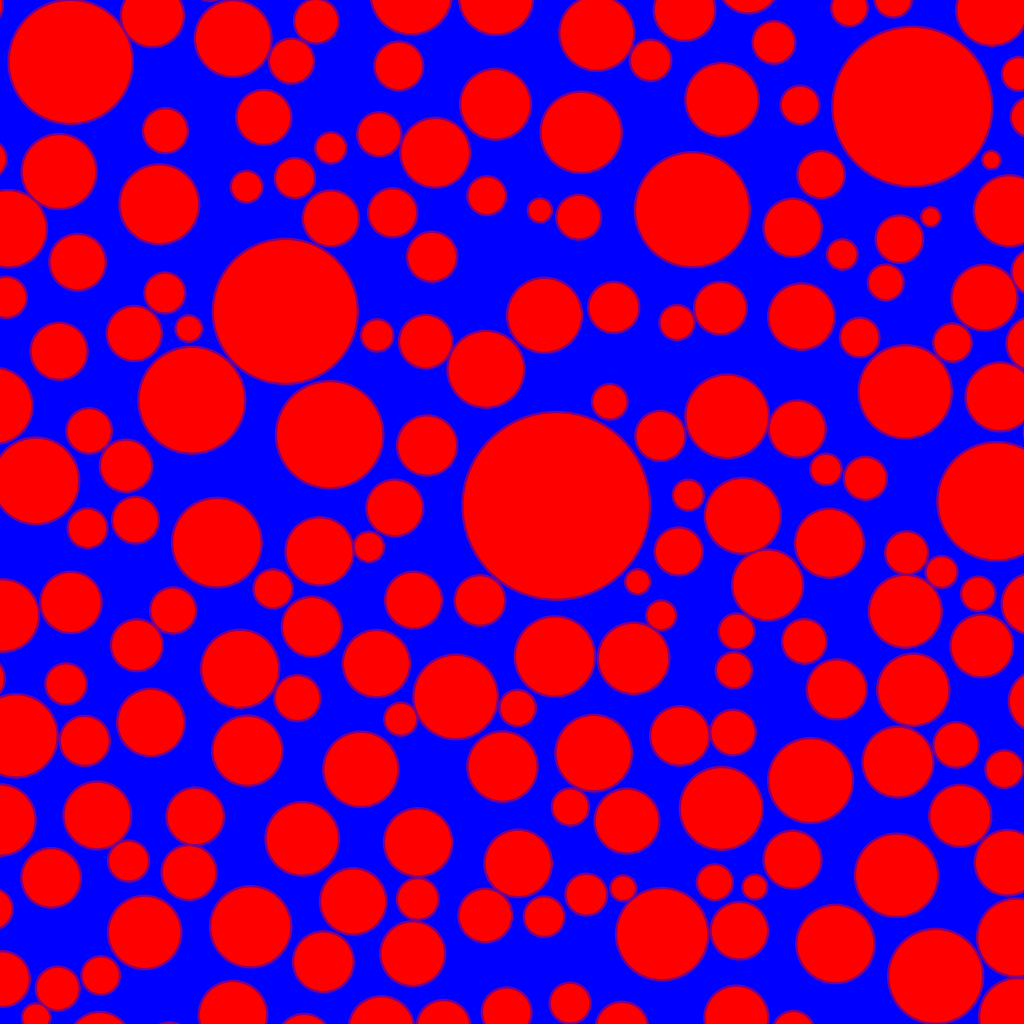
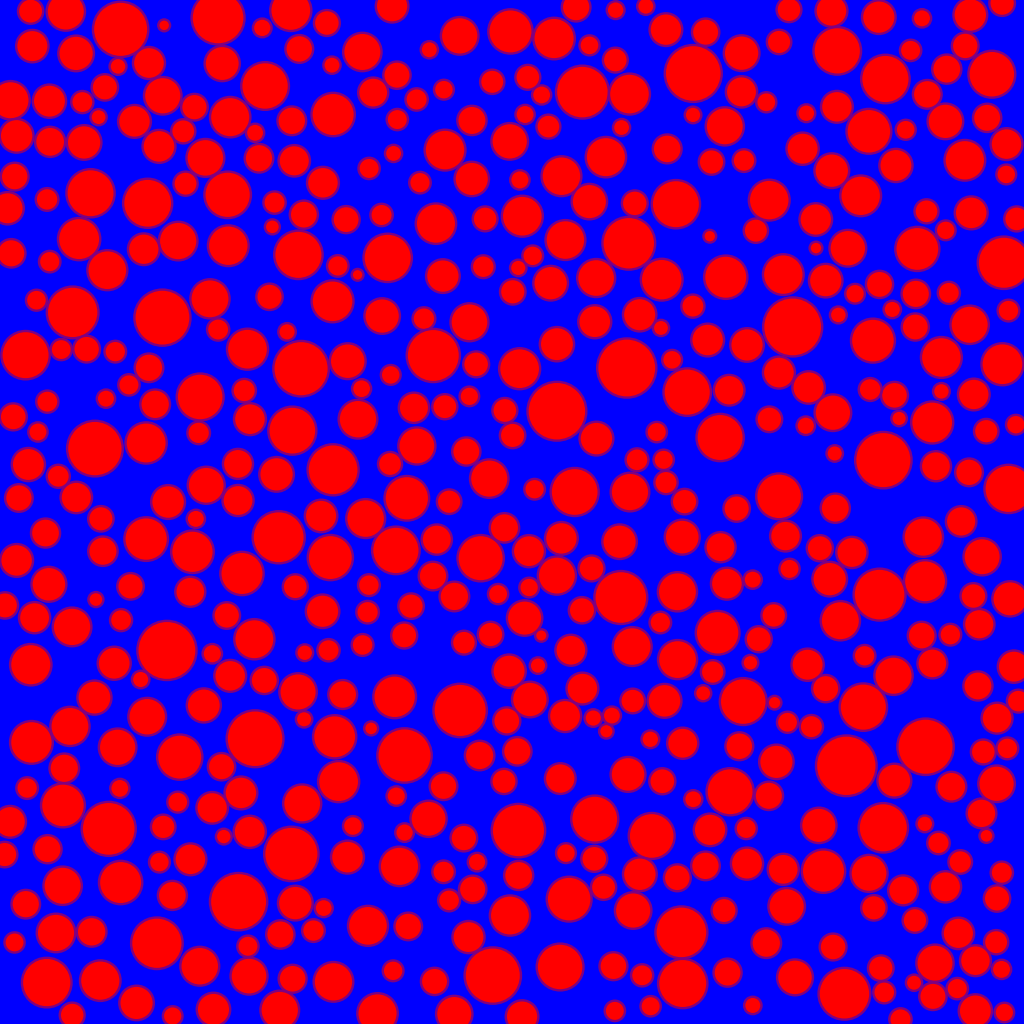
combined vert_avg w/ samples

diff --git a/samples.py b/samples.py
@@ -7,6 +7,7 @@ import os
 import gen_meso as gm
 import numpy as np
 import glob
+import line_comp as lc
 #clear folders to generate new images
 
 
@@ -23,63 +24,93 @@ def clear_folder(folder_path):
 
 
 # Parameters
-std_dev_uni = 0.2
+std_dev_uni = 0.4
 AP_vol_50A = 0.5
-avg_rad_50A = np.linspace(20e-6, 45e-6, 50)
+avg_rad_50A = np.linspace(50e-6, 100e-6, 2)
 
-avg_rad_50B = 40e-6  # fixed particle size
-AP_vol_50B = np.linspace(0.5, 0.7, 50)  # varying AP
+avg_rad_50B = 70e-6  # fixed particle size
+AP_vol_50B = np.linspace(0.4, 0.6, 50)  # varying AP
 
-std_dev_bi = [0.2, 0.4]
-mean_rad_bi_size = [np.linspace(80e-6, 130e-6, 50), [27e-6]*50]  # varying size, coarse/fine
+std_dev_bi = [0.2, 0.5] #standard dev of coarse and fine groups
+mean_rad_bi_size = [np.linspace(90e-6, 110e-6, 50), [4e-6]*50]  # varying size, coarse/fine
 AP_fixed_bi = 0.5
 
-mean_rad_bi_AP = [100e-6, 8e-6]  # fixed size, coarse/fine
-AP_bi_var = np.linspace(0.55, 0.75, 50)  # varying AP
+mean_rad_bi_AP = [110e-6, 4e-6]  # fixed size, coarse/fine
+AP_bi_var = np.linspace(0.5, 0.7, 50)  # varying AP
 mix_bi = 1/10 #1:10 coarse:fine
 
 img_size = 1
-physical_size = 5e-4
+physical_size = 50e-4
 max_attempts = 5000
 
 folderA_png = "./generated_images/unimodal_varying_part_size/pngs"
 folderA_xyzr = "./generated_images/unimodal_varying_part_size/xyzrs"
+
 folderB_png = "./generated_images/unimodal_varying_AP_ratio/pngs"
 folderB_xyzr = "./generated_images/unimodal_varying_AP_ratio/xyzrs"
+
 folderC_png = "./generated_images/bimodal_varying_part_size/pngs"
 folderC_xyzr = "./generated_images/bimodal_varying_part_size/xyzrs"
+
+
 folderD_png = "./generated_images/bimodal_varying_AP_ratio/pngs"
 folderD_xyzr = "./generated_images/bimodal_varying_AP_ratio/xyzrs"
+
 folder_ignore = "./generated_images/ignore"
+
+resultsA = "./generated_images/unimodal_varying_part_size/results.txt"
+resultsB = "./generated_images/unimodal_varying_AP_ratio/results.txt"
+resultsC = "./generated_images/bimodal_varying_part_size/results.txt"
+resultsD = "./generated_images/bimodal_varying_AP_ratio/results.txt"
+
+
 
 clear_folder(folderA_png)
 clear_folder(folderA_xyzr)
+
 clear_folder(folderB_png)
 clear_folder(folderB_xyzr)
+
 clear_folder(folderC_png)
 clear_folder(folderC_xyzr)
+
 clear_folder(folderD_png)
 clear_folder(folderD_xyzr)
 
+
+
+
+
 os.makedirs(folderA_png, exist_ok=True)
 os.makedirs(folderA_xyzr, exist_ok=True)
+
 os.makedirs(folderB_png, exist_ok=True)
 os.makedirs(folderB_xyzr, exist_ok=True)
+
 os.makedirs(folderC_png, exist_ok=True)
 os.makedirs(folderC_xyzr, exist_ok=True)
+
 os.makedirs(folderD_png, exist_ok=True)
 os.makedirs(folderD_xyzr, exist_ok=True)
+
 os.makedirs(folder_ignore, exist_ok=True)
+
+
+for fp in [resultsA, resultsB, resultsC, resultsD]:
+    os.makedirs(os.path.dirname(fp), exist_ok=True)
+
+
 
 save_path_ignore = os.path.join(folder_ignore, "ignore.png")
 
-def generate():
-    
+def generateA():
+    results = []
     # --- A: Unimodal, varying particle size ---
     for i, radius in enumerate(avg_rad_50A):
+        
         temp_png = os.path.join(folderA_png, f"temp_{i}.png")
         temp_xyzr = os.path.join(folderA_xyzr, f"temp_{i}.xyzr")
-
+        
         _, _, AP_achieved, _ = gm.gen_struct(
             temp_png, save_path_ignore, temp_xyzr,
             img_size, physical_size, radius, AP_vol_50A,
@@ -90,14 +121,23 @@ def generate():
         radius_um = int(radius * 1e7) #3 digit radius
         final_png = os.path.join(folderA_png, f"uni_R{radius_um}um_AP{AP_str}.png")
         final_xyzr = os.path.join(folderA_xyzr, f"uni_R{radius_um}um_AP{AP_str}.xyzr")
-
+        ap, htpb, interface = lc.vert_avg(save_path_ignore)
+        results.append((AP_achieved, ap, htpb, interface))
         if os.path.exists(temp_png):
             os.replace(temp_png, final_png)
         if os.path.exists(temp_xyzr):
             os.replace(temp_xyzr, final_xyzr)
         else:
             print(f"Warning: {temp_xyzr} was not created!")
+    with open(resultsA, "w") as f:
+        f.write("AP_achieved, AP_vert, HTPB_vert, Interface_vert\n")  # optional header
+        for item in results:
+            f.write(f"{item[0]}, {item[1]}, {item[2]}, {item[3]}\n")
 
+
+            
+def generateB():
+    results = []
     # --- B: Unimodal, varying AP fraction ---
     for i, AP_target in enumerate(AP_vol_50B):
         temp_png = os.path.join(folderB_png, f"temp_{i}.png")
@@ -113,14 +153,21 @@ def generate():
         radius_um = int(avg_rad_50B * 1e6)
         final_png = os.path.join(folderB_png, f"uni_AP{AP_str}_R{radius_um}um.png")
         final_xyzr = os.path.join(folderB_xyzr, f"uni_AP{AP_str}_R{radius_um}um.xyzr")
-
+        ap, htpb, interface = lc.vert_avg(save_path_ignore)
+        results.append((AP_achieved, ap, htpb, interface))
         if os.path.exists(temp_png):
             os.replace(temp_png, final_png)
         if os.path.exists(temp_xyzr):
             os.replace(temp_xyzr, final_xyzr)
         else:
             print(f"Warning: {temp_xyzr} was not created!")
+    with open(resultsB, "w") as f:
+        f.write("AP_achieved, AP_vert, HTPB_vert, Interface_vert\n")  # optional header
+        for item in results:
+            f.write(f"{item[0]}, {item[1]}, {item[2]}, {item[3]}\n")
 
+def generateC():
+    results = []
     # --- C: Bimodal, varying particle size ---
     for i, coarse_radius in enumerate(mean_rad_bi_size[0]):
         fine_radius = mean_rad_bi_size[1][i]  # pick corresponding fine particle
@@ -139,15 +186,21 @@ def generate():
         radius_um = int(coarse_radius * 1e7) #3 digit radius
         final_png = os.path.join(folderC_png, f"bi_R{radius_um}um_AP{AP_str}.png")
         final_xyzr = os.path.join(folderC_xyzr, f"bi_R{radius_um}um_AP{AP_str}.xyzr")
-
+        ap, htpb, interface = lc.vert_avg(save_path_ignore)
+        results.append((AP_achieved, ap, htpb, interface))
         if os.path.exists(temp_png):
             os.replace(temp_png, final_png)
         if os.path.exists(temp_xyzr):
             os.replace(temp_xyzr, final_xyzr)
         else:
             print(f"Warning: {temp_xyzr} was not created!")
+    with open(resultsC, "w") as f:
+        f.write("AP_achieved, AP_vert, HTPB_vert, Interface_vert\n")  # optional header
+        for item in results:
+            f.write(f"{item[0]}, {item[1]}, {item[2]}, {item[3]}\n")
 
-
+def generateD():
+    results = []
     # --- D: Bimodal, varying AP fraction ---
     coarse_radius = mean_rad_bi_AP[0]
     fine_radius = mean_rad_bi_AP[1]
@@ -167,15 +220,24 @@ def generate():
         radius_um = int(coarse_radius * 1e6)
         final_png = os.path.join(folderD_png, f"bi_AP{AP_str}_R{radius_um}um.png")
         final_xyzr = os.path.join(folderD_xyzr, f"bi_AP{AP_str}_R{radius_um}um.xyzr")
-
+        ap, htpb, interface = lc.vert_avg(save_path_ignore)
+        results.append((AP_achieved, ap, htpb, interface))
         if os.path.exists(temp_png):
             os.replace(temp_png, final_png)
         if os.path.exists(temp_xyzr):
             os.replace(temp_xyzr, final_xyzr)
         else:
             print(f"Warning: {temp_xyzr} was not created!")
+    with open(resultsD, "w") as f:
+        f.write("AP_achieved, AP_vert, HTPB_vert, Interface_vert\n")  # optional header
+        for item in results:
+            f.write(f"{item[0]}, {item[1]}, {item[2]}, {item[3]}\n")
+
+
+
+    
 
 
 if __name__ == "__main__":
-    generate()
+    generateA()
     print('Success!')

diff --git a/gen_meso.py b/gen_meso.py
@@ -38,12 +38,12 @@ def save_xyzr(circles, filepath, img_size, physical_size):
             rp = r * scale
             f.write(f"{xp:.8e} {yp:.8e} 0.0 {rp:.8e}\n")
 
-def gen_struct(save_path, save_path_untitled, save_path_xyzr, img_size, physical_size, physical_mean_radius, ap_ratio, rad_dev, max_attempts, mode, mix=0.5):
+def gen_struct(save_path, save_path_untitled, save_path_xyzr, img_size, physical_size, physical_mean_radius, ap_ratio, rad_dev, max_attempts, mode, mix=0.5, max_tries=50):
     '''Generate a 2D microstructure assuming perfect circles, normal distribution
         returns untitled and titled images
         mode: 
             enter 1 for unimodal, 2 for bimodal'''
-    margin = 0.05
+    margin = 0.01
     
     #random number generator to have various circle sizes
     rng = np.random.default_rng()
@@ -79,9 +79,9 @@ def gen_struct(save_path, save_path_untitled, save_path_xyzr, img_size, physical
     
     #use grid setup to check for overlap, rather than checking every grain every time
     if mode == 1:
-        cell_size = 4 * mean_rad
+        cell_size = 40 * mean_rad #using bigger cell size for bigger area
     else:
-        cell_size = 4 * max(mean_rad)  # use the larger radius
+        cell_size = 40 * max(mean_rad)  # use the larger radius
     n_cells = max(1, int(math.ceil(img_size / cell_size))) #numb er of cells in image
     
     grid = [[[] for _ in range(n_cells)] for __ in range(n_cells)] #empty grid
@@ -117,7 +117,6 @@ def gen_struct(save_path, save_path_untitled, save_path_xyzr, img_size, physical
 
     #main function: place AP circles until we get to target area of AP 
     
-    max_tries = 50  # number of times to retry the whole image
     success = False
     best_circles = None
     best_total_area = 0
@@ -213,9 +212,6 @@ def gen_struct(save_path, save_path_untitled, save_path_xyzr, img_size, physical
                     r = sample_radius(r_min, r_max, mu0, sigma0, rng)
                 else:
                     r = sample_radius(r_min, r_max, mu1, sigma1, rng)
-
-
-
             
             #random coordinate for center of circle
             '''want to see later if this works to plot some outside the domain,
@@ -235,7 +231,7 @@ def gen_struct(save_path, save_path_untitled, save_path_xyzr, img_size, physical
             
             if not valid:
                 continue #don't place
-                    
+            
             #accept placement, add to list
             circles.append((x, y, r))
             #add to grid

diff --git a/line_comp.py b/line_comp.py
@@ -12,7 +12,7 @@ trim_path = ".\generated_images\mesostructure_trimmed.png"
 #trimmed images 922x922
 
 def line_comp(save_path, column_index):
-    '''Pull a vertical line from an image and return % comp of AP, HTPB, and boundary (red, blue, purple)'''
+    '''Pull a vertical line from an image and return % comp of AP, HTPB, and interface (red, blue, purple)'''
     
     img = Image.open(save_path).convert("RGB")
     arr = np.array(img)
@@ -59,10 +59,10 @@ def vert_avg(save_path):
     for col in range(arr.shape[1]):
         comp_list.append(line_comp(save_path, col))
     comp_array = np.array(comp_list)
-    av_comp = np.mean(comp_array, axis=0)
-    ap_av, htpb_av, int_av = av_comp
-    return av_comp
+    ap_av, htpb_av, int_av = np.mean(comp_array, axis=0)
+    return ap_av, htpb_av, int_av
 
+#DON"T NEED THIS WITH UPDATED GEN_STRUCT
 def trim_edges(save_path, trim_path):
     '''trims edges, takes 5% of square image's width off each edge, so 1x1 is now 0.9x0.9'''
     img = Image.open(save_path).convert("RGB")
@@ -75,6 +75,8 @@ def trim_edges(save_path, trim_path):
     trimmed_img = img.crop(crop_box)
     trimmed_img.save(trim_path)
     return trimmed_img
+
+
     
 if __name__ == "__main__":
     trim_edges(save_path, trim_path)

diff --git a/params.py b/params.py
@@ -44,7 +44,7 @@ def test_radius(radius_set):
     #do five microstructure generations and analyses per point
     for i in range(n): #for each 
         mini_list = []
-        for j in range(5):
+        for j in range(10):
             img_trimmed = img_trimmed = os.path.join(folder, f"trimmed_{i}.png")
             temp_ignore = os.path.join(folder, f"ignore_{i}.png")
             gm.gen_struct(temp_ignore, temp_img, 1, radius_set[i], comp_const, dev_const, 50000)
